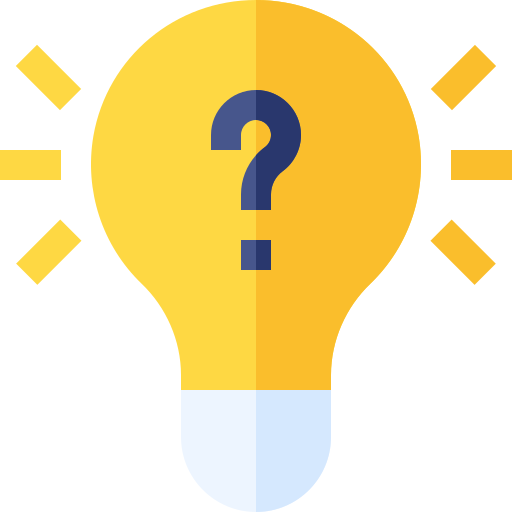
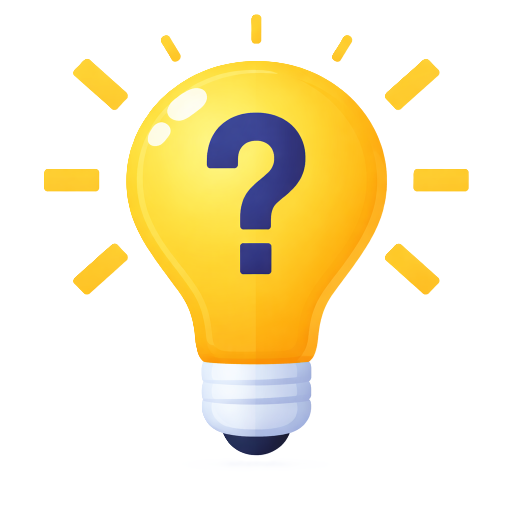
Adding thumbnails for the other pages

diff --git a/quiz.html b/quiz.html
@@ -13,9 +13,9 @@
     <meta property="og:title" content="Can You Score 10/10 on this Hard History Quiz?">
     <meta property="og:description"
         content="Only 5% of people can pass this test. Click here to see if you are a history buff!">
-    <meta property="og:image" content="https://belalamrmohamed.github.io/Quiz/images/thumbnail.png">
-    <meta property="og:image:width" content="1200">
-    <meta property="og:image:height" content="630">
+    <meta property="og:image" content="https://belalamrmohamed.github.io/Quiz/images/quiz-thumbnail.jpeg">
+    <meta property="og:image:width" content="1024">
+    <meta property="og:image:height" content="1024">
     <meta property="og:site_name" content="Quiz by Belal Amr Mohamed">
     <meta property="og:locale" content="en_US">
 

diff --git a/dashboard.html b/dashboard.html
@@ -13,7 +13,7 @@
     <meta property="og:title" content="Quiz Dashboard: Track Your College Study Progress">
     <meta property="og:description"
         content="Access your personalized quiz dashboard for college courses. View study stats, recent quizzes, progress trackers, and start new exams to boost your learning. Ideal for students preparing for tests.">
-    <meta property="og:image" content="https://belalamrmohamed.github.io/Quiz/images/thumbnail.png">
+    <meta property="og:image" content="https://belalamrmohamed.github.io/Quiz/images/dashboard-thumbnail.jpg">
     <meta property="og:image:width" content="1200">
     <meta property="og:image:height" content="630">
 

diff --git a/summary.html b/summary.html
@@ -13,7 +13,7 @@
     <meta property="og:title" content="Quiz Results Summary">
     <meta property="og:description"
         content="Know the results of your quiz attempts with detailed performance summaries and insights.">
-    <meta property="og:image" content="https://belalamrmohamed.github.io/Quiz/images/thumbnail.png">
+    <meta property="og:image" content="https://belalamrmohamed.github.io/Quiz/images/summary-thumbnail.jpg">
     <meta property="og:image:width" content="1200">
     <meta property="og:image:height" content="630">
 
